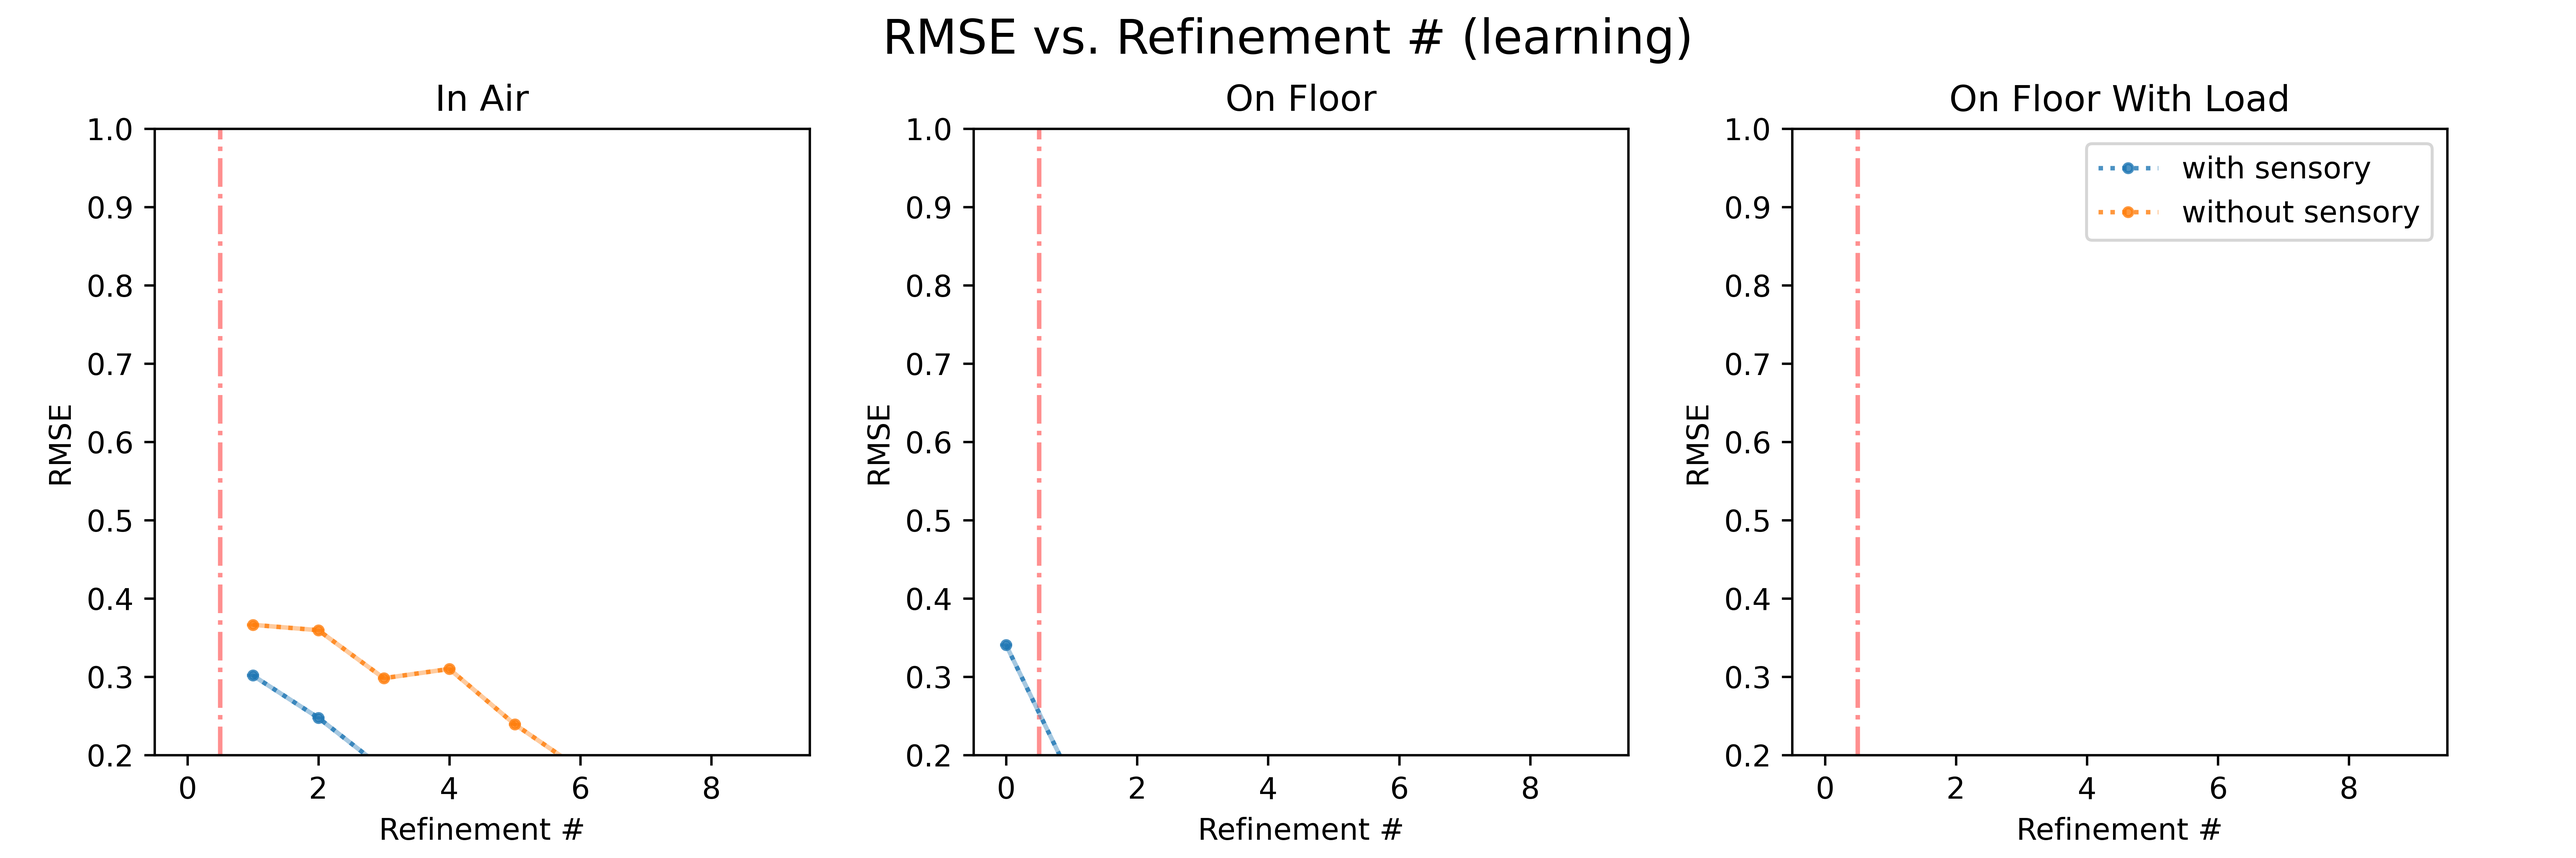
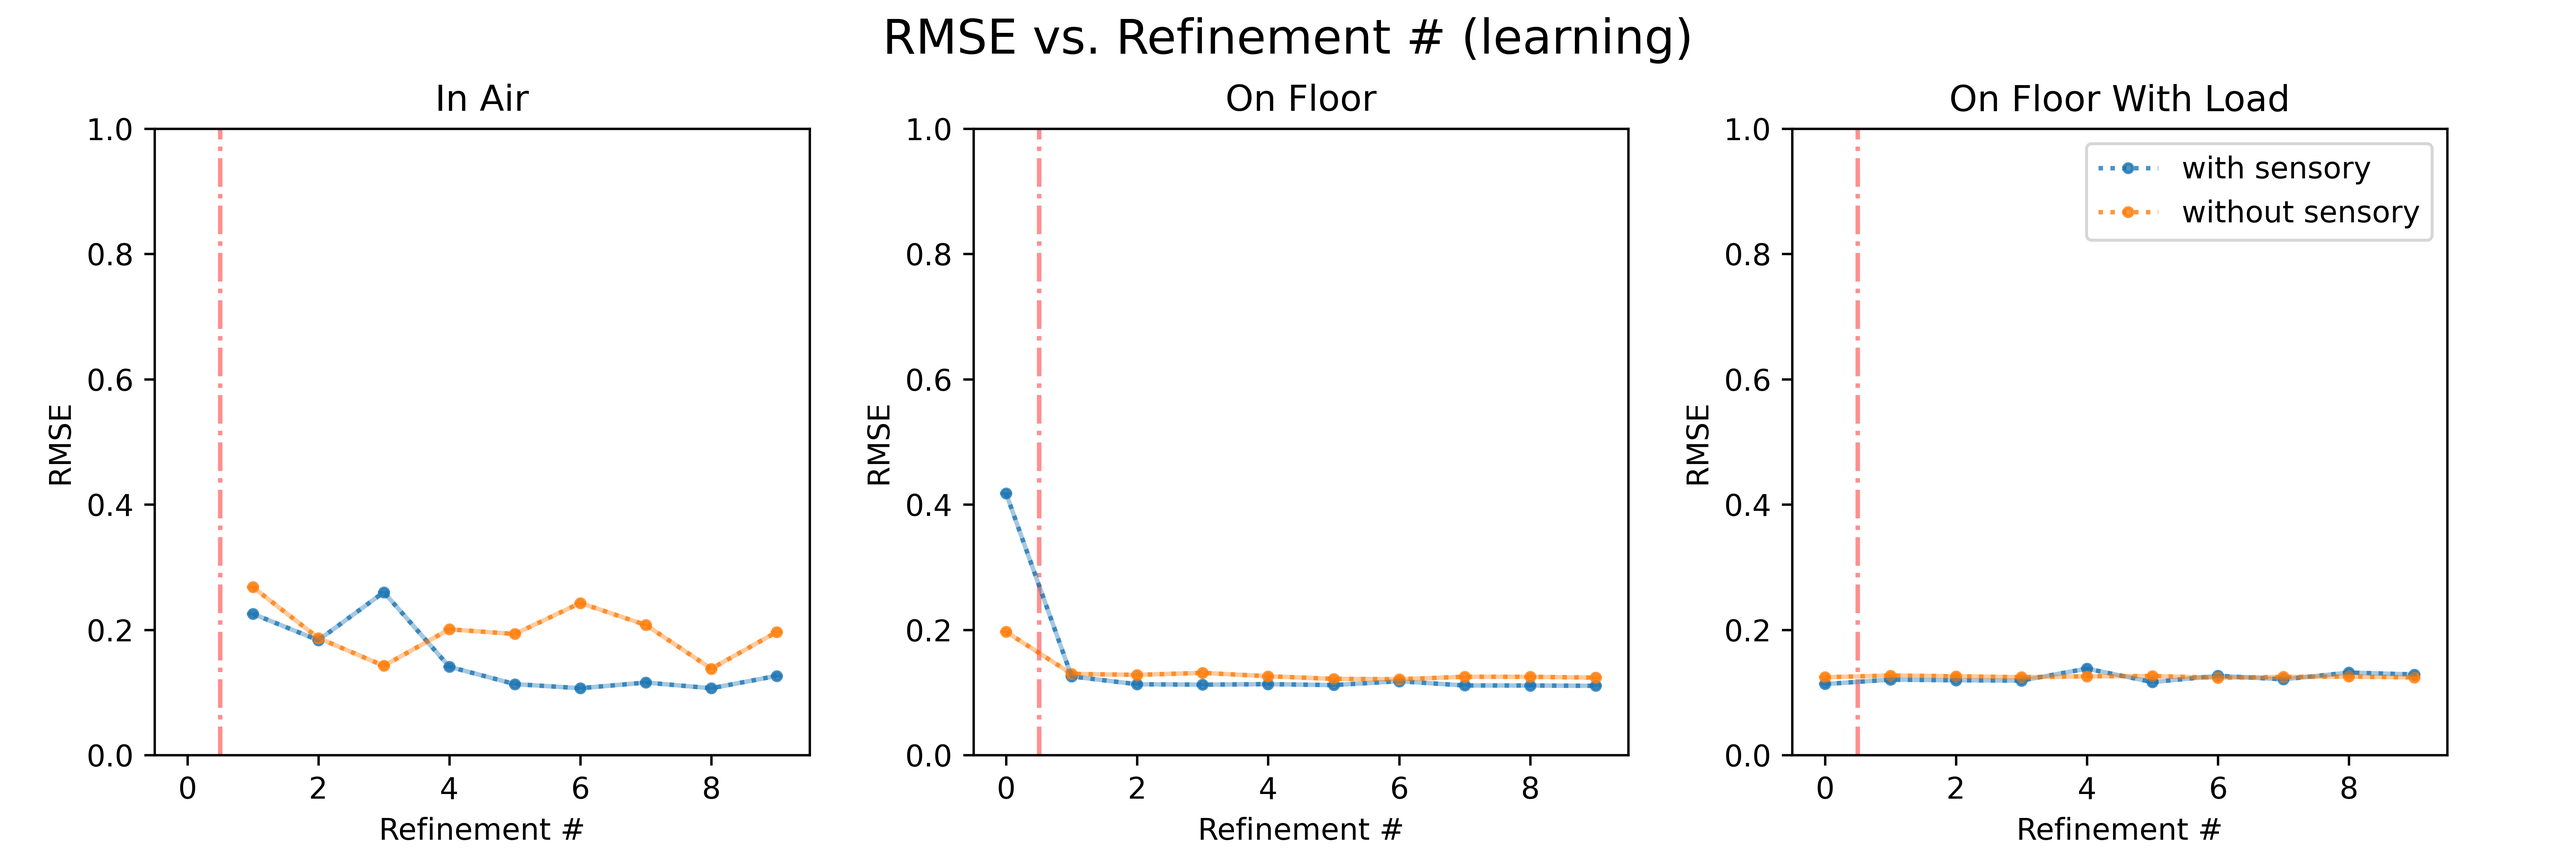
added the option to use acc or not

diff --git a/all_functions.py b/all_functions.py
@@ -9,7 +9,7 @@ import tensorflow as tf
 import matplotlib.pyplot as plt
 
 ## executive functions
-def babble_and_refine(MuJoCo_model_name, experiment_ID, run_no, kinematics_all, sensory_all, activations_all, number_of_refinements, use_sensory=True, use_feedback=False, task_type="cyclical", ANN_structure="M", actuation_type="JD",dt=.01):
+def babble_and_refine(MuJoCo_model_name, experiment_ID, run_no, kinematics_all, sensory_all, activations_all, number_of_refinements, use_sensory=True, use_feedback=False, task_type="cyclical", ANN_structure="M", actuation_type="JD",use_acc=False, dt=.01):
 	babbling = True
 	number_of_legs = 4
 	if ANN_structure == "M":
@@ -57,7 +57,7 @@ def babble_and_refine(MuJoCo_model_name, experiment_ID, run_no, kinematics_all, 
 	else:
 		# asses the before babbling error
 		[returned_kinematics, returned_sensorreads, returned_est_activations ] = run_activations_ws_cl_varANNs_fcn(
-			MuJoCo_model_name, attempt_kinematics, log_address="./log/{}/{}/".format(experiment_ID,run_no), dt=dt, ANN_structure = ANN_structure, use_sensory=use_sensory, use_feedback=use_feedback, Mj_render=False, actuation_type=actuation_type) # this should be cl
+			MuJoCo_model_name, attempt_kinematics, log_address="./log/{}/{}/".format(experiment_ID,run_no), dt=dt, ANN_structure = ANN_structure, use_sensory=use_sensory, use_feedback=use_feedback, Mj_render=False, actuation_type=actuation_type, use_acc=use_acc) # this should be cl
 		RMSE = np.sqrt(np.mean(np.square((returned_kinematics[int(returned_kinematics.shape[0]/2):,:8]-attempt_kinematics[int(attempt_kinematics.shape[0]/2):,:8])))) # RMSE on the last half of the trial
 		print("Pre-babbling error>")
 		print("RMSE:", RMSE)
@@ -69,12 +69,12 @@ def babble_and_refine(MuJoCo_model_name, experiment_ID, run_no, kinematics_all, 
 		use_prior_model_babbling = True
 
 	Inverse_ANN_models = inverse_mapping_ws_varANNs_fcn(
-	kinematics_all, sensory_all, activations_all, ANN_structure=ANN_structure, epochs=25, log_address="./log/{}/{}/".format(experiment_ID,run_no), use_sensory=use_sensory, use_prior_model=use_prior_model_babbling, actuation_type=actuation_type) #
+	kinematics_all, sensory_all, activations_all, ANN_structure=ANN_structure, epochs=25, log_address="./log/{}/{}/".format(experiment_ID,run_no), use_sensory=use_sensory, use_prior_model=use_prior_model_babbling, actuation_type=actuation_type, use_acc=use_acc) #
 	
 	
 	for ii in range(number_of_refinements):
 		[returned_kinematics, returned_sensorreads, returned_est_activations ] = run_activations_ws_cl_varANNs_fcn(
-			MuJoCo_model_name, attempt_kinematics, log_address="./log/{}/{}/".format(experiment_ID,run_no), dt=dt, ANN_structure = ANN_structure, use_sensory=use_sensory, use_feedback=use_feedback, Mj_render=False, actuation_type=actuation_type) # this should be cl
+			MuJoCo_model_name, attempt_kinematics, log_address="./log/{}/{}/".format(experiment_ID,run_no), dt=dt, ANN_structure = ANN_structure, use_sensory=use_sensory, use_feedback=use_feedback, Mj_render=False, actuation_type=actuation_type, use_acc=use_acc) # this should be cl
 		RMSE = np.sqrt(np.mean(np.square((returned_kinematics[int(returned_kinematics.shape[0]/2):,:8]-attempt_kinematics[int(attempt_kinematics.shape[0]/2):,:8])))) # RMSE on the last half of the trial
 		print("Run #:", ii+1)
 		print("RMSE:", RMSE)
@@ -85,33 +85,33 @@ def babble_and_refine(MuJoCo_model_name, experiment_ID, run_no, kinematics_all, 
 		activations_all = np.concatenate((activations_all,returned_est_activations),axis=0)
 
 		Inverse_ANN_models = inverse_mapping_ws_varANNs_fcn(
-		kinematics_all, sensory_all, activations_all, ANN_structure=ANN_structure, epochs=5, log_address="./log/{}/{}/".format(experiment_ID,run_no), use_sensory=use_sensory, use_prior_model=True, actuation_type=actuation_type) #
+		kinematics_all, sensory_all, activations_all, ANN_structure=ANN_structure, epochs=5, log_address="./log/{}/{}/".format(experiment_ID,run_no), use_sensory=use_sensory, use_prior_model=True, actuation_type=actuation_type, use_acc=use_acc) #
 	# test_run (no-training or storing the data)
 	[returned_kinematics, returned_sensorreads, returned_est_activations ] = run_activations_ws_cl_varANNs_fcn(
-		MuJoCo_model_name, attempt_kinematics, log_address="./log/{}/{}/".format(experiment_ID,run_no), dt=dt, ANN_structure = ANN_structure, use_sensory=use_sensory, use_feedback=use_feedback, Mj_render=False, actuation_type=actuation_type) # this should be cl
+		MuJoCo_model_name, attempt_kinematics, log_address="./log/{}/{}/".format(experiment_ID,run_no), dt=dt, ANN_structure = ANN_structure, use_sensory=use_sensory, use_feedback=use_feedback, Mj_render=False, actuation_type=actuation_type, use_acc=use_acc) # this should be cl
 	RMSE = np.sqrt(np.mean(np.square((returned_kinematics[int(returned_kinematics.shape[0]/2):,:8]-attempt_kinematics[int(attempt_kinematics.shape[0]/2):,:8]))))
 	print("Run #:", number_of_refinements+1)
 	print("RMSE:", RMSE)
 	errors.append(RMSE)
 	return errors, kinematics_all, sensory_all, activations_all
 
-def test_a_task(MuJoCo_model_name, experiment_ID, run_no, use_sensory=True, use_feedback=False, Mj_render=False, plot_position_curves=False, task_type = "cyclical", ANN_structure="M", dt=0.01, actuation_type="JD"):
+def test_a_task(MuJoCo_model_name, experiment_ID, run_no, use_sensory=True, use_feedback=False, Mj_render=False, plot_position_curves=False, task_type = "cyclical", ANN_structure="M", dt=0.01, actuation_type="JD", use_acc=False):
 	refinement_duration_in_seconds = 10
 	if task_type == "cyclical":
-		attempt_kinematics = create_cyclical_movements_fcn(omega = 3, attempt_length = refinement_duration_in_seconds, dt=dt)
+		attempt_kinematics = create_cyclical_movements_fcn(omega = 1.5, attempt_length = refinement_duration_in_seconds, dt=dt)
 	elif task_type == "p2p":
 		attempt_kinematics = create_p2p_movements_fcn(number_of_steps = 10, attempt_length = refinement_duration_in_seconds, dt=dt)
 	else:
 		ValueError("unacceptable task")
 	[returned_kinematics, returned_sensorreads, returned_est_activations ] = run_activations_ws_cl_varANNs_fcn(
-			MuJoCo_model_name, attempt_kinematics, log_address="./log/{}/{}/".format(experiment_ID,run_no), dt=dt, ANN_structure = ANN_structure, use_sensory=use_sensory, use_feedback=use_feedback, Mj_render=Mj_render, actuation_type=actuation_type) # this should be cl
+			MuJoCo_model_name, attempt_kinematics, log_address="./log/{}/{}/".format(experiment_ID,run_no), dt=dt, ANN_structure = ANN_structure, use_sensory=use_sensory, use_feedback=use_feedback, Mj_render=Mj_render, actuation_type=actuation_type, use_acc=use_acc) # this should be cl
 	RMSE = np.sqrt(np.mean(np.square((returned_kinematics[int(returned_kinematics.shape[0]/2):,:8]-attempt_kinematics[int(attempt_kinematics.shape[0]/2):,:8])))) # RMSE on the last half of the trial
 	if plot_position_curves:
 		# import pdb; pdb.set_trace()
 		fig, axes = plt.subplots(nrows=2, ncols=1, figsize=(6, 4.2))
-		axes[0].plot(np.arange(1000),returned_kinematics[int(returned_kinematics.shape[0]/2):,0], np.arange(1000), attempt_kinematics[int(attempt_kinematics.shape[0]/2):,0])
+		axes[0].plot(np.arange(1000),returned_kinematics[int(returned_kinematics.shape[0]/2):,0+16], np.arange(1000), attempt_kinematics[int(attempt_kinematics.shape[0]/2):,0+16])
 		axes[0].set_title('proximal')
-		axes[1].plot(np.arange(1000), returned_kinematics[int(returned_kinematics.shape[0]/2):,1], np.arange(1000), attempt_kinematics[int(attempt_kinematics.shape[0]/2):,1])
+		axes[1].plot(np.arange(1000), returned_kinematics[int(returned_kinematics.shape[0]/2):,1+16], np.arange(1000), attempt_kinematics[int(attempt_kinematics.shape[0]/2):,1+16])
 		axes[1].set_title('distal')
 		plt.show(block=True)
 

diff --git a/test_run.py b/test_run.py
@@ -6,7 +6,7 @@ import multiprocessing as mp
 from all_functions import *
 
 def L2_learn_quadruped_experiment(run_no):
-	experiment_ID_base = 'cur3_V5_TD_test42'
+	experiment_ID_base = 'cur3_V5_TD_test43'
 # Create target Directory if don't exist
 	dt=.005
 	if not os.path.exists('./results/'+experiment_ID_base):
@@ -16,8 +16,9 @@ def L2_learn_quadruped_experiment(run_no):
 	# ANN_structures = ["S","M"]
 	all_sensory_cases = [True, False]
 	all_feedback_cases = [True, False]
+	use_acc=False
 	curriculums = ["_E2H"]
-	ANN_structures = ["M"]
+	ANN_structures = ["S"]
 	actuation_type = "TD"
 	number_of_refinements = 8
 	for cur in curriculums:
@@ -68,13 +69,14 @@ def L2_learn_quadruped_experiment(run_no):
 									task_type=task_type,
 									ANN_structure=ANN_structure,
 									actuation_type=actuation_type,
+									use_acc=use_acc,
 									dt=dt)
 							if ii ==0:
 								learning_errors[ii,1:] = errors
 							else:
 								learning_errors[ii,:] = errors
 						for MuJoCo_model_name , ii in zip(MuJoCo_model_names, range(len(MuJoCo_model_names))):
-							task_errors[ii] = test_a_task(MuJoCo_model_name, save_log_path, run_no, use_sensory=use_sensory, use_feedback=use_feedback, plot_position_curves=False, task_type=task_type, ANN_structure=ANN_structure, dt=dt, actuation_type=actuation_type)
+							task_errors[ii] = test_a_task(MuJoCo_model_name, save_log_path, run_no, use_sensory=use_sensory, use_feedback=use_feedback, plot_position_curves=False, task_type=task_type, ANN_structure=ANN_structure, dt=dt, actuation_type=actuation_type, use_acc=use_acc)
 						np.save('./results/{}/MC{}_{}_babble_and_refine_results'.format(experiment_ID_base, run_no, experiment_ID),learning_errors)
 						np.save('./results/{}/MC{}_{}_task_results'.format(experiment_ID_base, run_no, experiment_ID),task_errors)
 # main code

diff --git a/test_show_results.py b/test_show_results.py
@@ -6,7 +6,8 @@ experiment_ID_base = 'cur3_V5_TD_test41'
 show_video = True
 
 all_sensory_cases = [True, False]
-use_feedback = True
+use_feedback = False
+use_acc=True
 cur = "_E2H"
 ANN_structure = "M"
 actuation_type = "TD"
@@ -75,7 +76,7 @@ for use_sensory in all_sensory_cases:
 		axes1[ii].set_title(MuJoCo_model_names_short[ii])
 		axes1[ii].set_xlabel('Refinement #')
 		axes1[ii].set_ylabel('RMSE')
-		axes1[ii].set_ylim(0.2, 1)
+		axes1[ii].set_ylim(0.0, 1)
 		axes1[ii].set_xlim(-0.50, 9.5)
 		axes1[ii].grid(color='k', linestyle=':', linewidth=.5)
 
@@ -103,7 +104,7 @@ plt.setp(axes2.get_xticklabels(), rotation=-45, ha="left",
          rotation_mode="anchor")
 axes2.set_ylabel('RMSE')
 axes2.grid(color='k', linestyle=':', linewidth=.5)
-axes2.set_ylim(0.2, .7)
+axes2.set_ylim(0.0, .7)
 fig2.subplots_adjust(bottom=0.15, top=.92)
 axes1[2].legend((line1,line2),('with sensory','without sensory'))
 
@@ -134,7 +135,7 @@ if show_video:
 	run_no = 0
 	MuJoCo_model_names = ["tendon_quadruped_ws_inair.xml", "tendon_quadruped_ws_onfloor.xml", "tendon_quadruped_ws_onfloorloaded.xml"]
 	for MuJoCo_model_name , ii in zip(MuJoCo_model_names, range(len(MuJoCo_model_names))):
-		test_run_RMSE = test_a_task(MuJoCo_model_name, save_log_path, run_no, Mj_render=False, use_sensory=use_sensory, use_feedback=use_feedback, plot_position_curves=True, task_type=task_type, ANN_structure=ANN_structure, dt=dt, actuation_type=actuation_type)
+		test_run_RMSE = test_a_task(MuJoCo_model_name, save_log_path, run_no, Mj_render=True, use_sensory=use_sensory, use_feedback=use_feedback, plot_position_curves=True, task_type=task_type, ANN_structure=ANN_structure, dt=dt, actuation_type=actuation_type, use_acc=use_acc)
 		print(MuJoCo_model_name,"RMSE: " ,test_run_RMSE)
 #import pdb; pdb.set_trace()
 
